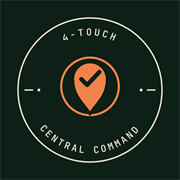
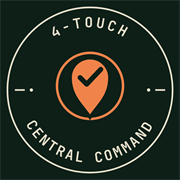
console: the patch reads across the room — bigger lettering, full-bleed badge
Kevin, from the home screen: the Central Command icon sat smaller than
the Autopilot beside it and the bottom arc could barely be read. The
badge now runs edge-to-edge like its sibling, and the arc lettering
steps up from 13px/500 to 17px/600 — on the icons and on the gate and
header crests both.

diff --git a/index.html b/index.html
@@ -2261,10 +2261,10 @@
         <path id="g-arc-bottom" d="M 17 105 A 88 88 0 0 0 193 105"></path>
       </defs>
       <circle cx="105" cy="105" r="100" stroke="#e8e0cc" stroke-width="2" fill="none"></circle>
-      <text style="font-family:'JetBrains Mono',monospace;font-size:13px;font-weight:500;letter-spacing:3px;fill:#e8e0cc">
+      <text style="font-family:'JetBrains Mono',monospace;font-size:17px;font-weight:600;letter-spacing:3px;fill:#e8e0cc">
         <textPath href="#g-arc-top" startOffset="50%" text-anchor="middle">4-TOUCH</textPath>
       </text>
-      <text style="font-family:'JetBrains Mono',monospace;font-size:13px;font-weight:500;letter-spacing:3px;fill:#e8e0cc">
+      <text style="font-family:'JetBrains Mono',monospace;font-size:17px;font-weight:600;letter-spacing:2.5px;fill:#e8e0cc">
         <textPath href="#g-arc-bottom" startOffset="50%" text-anchor="middle">CENTRAL COMMAND</textPath>
       </text>
       <g stroke="#e8e0cc" stroke-width="2">
@@ -2658,10 +2658,10 @@ function ccBadge(size){
       <path id="h-arc-bottom" d="M 17 105 A 88 88 0 0 0 193 105"></path>
     </defs>
     <circle cx="105" cy="105" r="100" stroke="#e8e0cc" stroke-width="2" fill="none"></circle>
-    <text style="font-family:'JetBrains Mono',monospace;font-size:13px;font-weight:500;letter-spacing:3px;fill:#e8e0cc">
+    <text style="font-family:'JetBrains Mono',monospace;font-size:17px;font-weight:600;letter-spacing:3px;fill:#e8e0cc">
       <textPath href="#h-arc-top" startOffset="50%" text-anchor="middle">4-TOUCH</textPath>
     </text>
-    <text style="font-family:'JetBrains Mono',monospace;font-size:13px;font-weight:500;letter-spacing:3px;fill:#e8e0cc">
+    <text style="font-family:'JetBrains Mono',monospace;font-size:17px;font-weight:600;letter-spacing:2.5px;fill:#e8e0cc">
       <textPath href="#h-arc-bottom" startOffset="50%" text-anchor="middle">CENTRAL COMMAND</textPath>
     </text>
     <g stroke="#e8e0cc" stroke-width="2">
